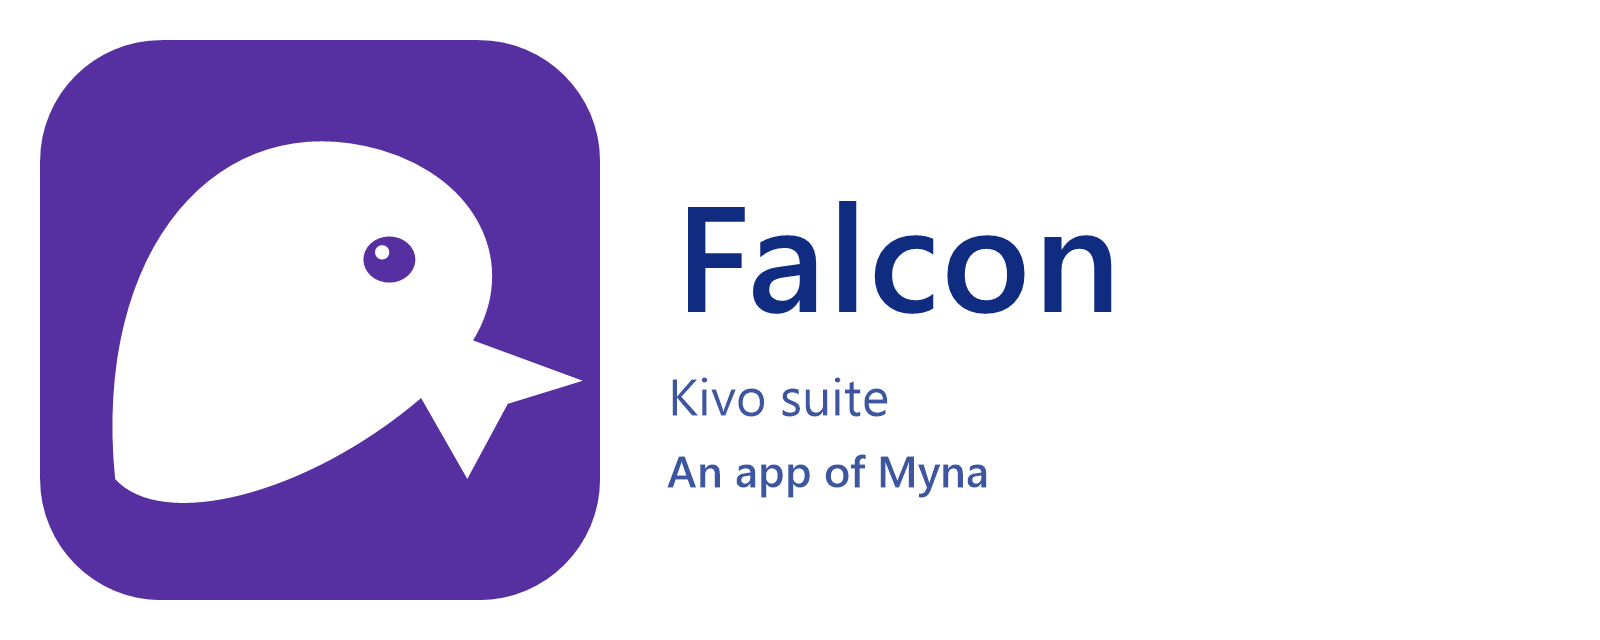
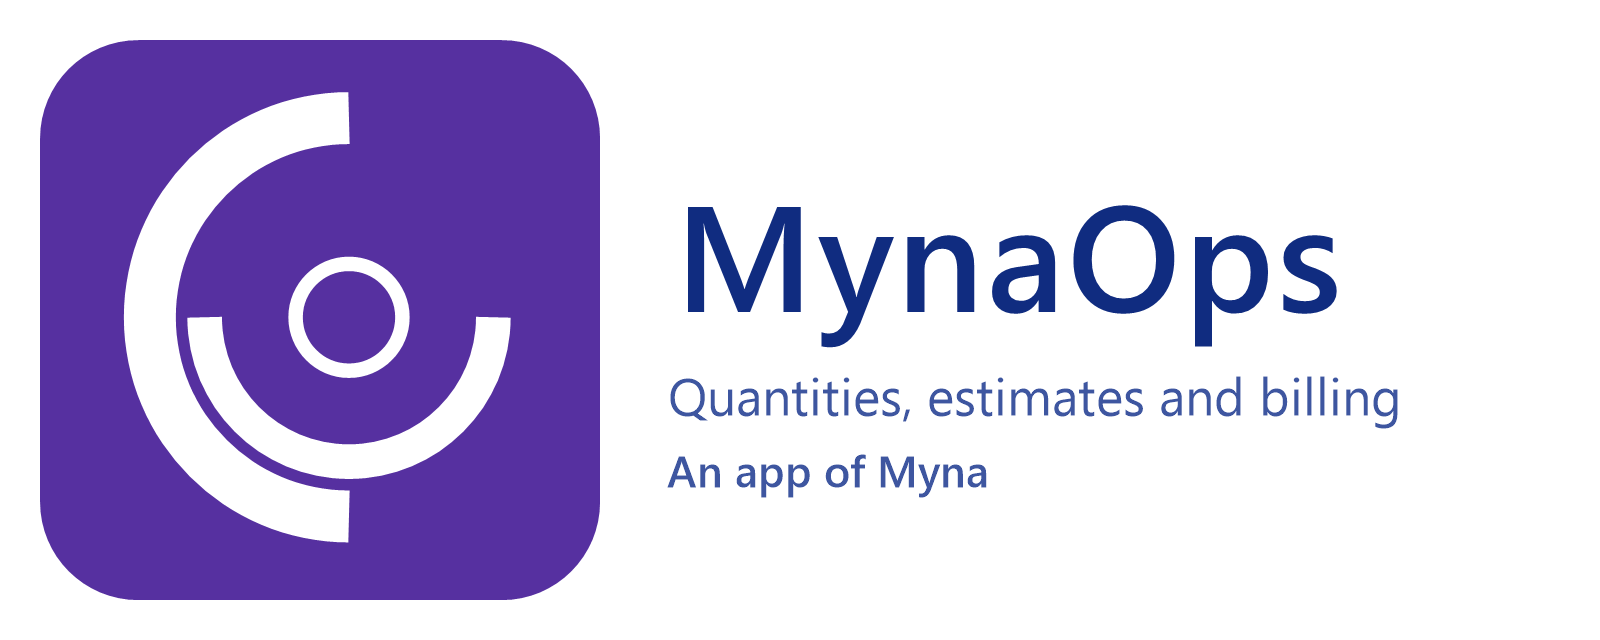
Restore the three-circle suite mark in each app's colour; pure white and pure black themes
The bird marks are retired. Each app wears the suite mark on its own colour, Myna wears the orb. Light is #FFFFFF with #000000 text, dark is #000000 with #FFFFFF text; accents stay per app.

diff --git a/BBSDesktop/BBSApp/Themes/OUiFluentBridge.xaml b/BBSDesktop/BBSApp/Themes/OUiFluentBridge.xaml
@@ -8,34 +8,34 @@
 
     <ResourceDictionary.ThemeDictionaries>
         <ResourceDictionary x:Key="Default">
-            <SolidColorBrush x:Key="ApplicationPageBackgroundThemeBrush" Color="#1B1F28"/>
-            <SolidColorBrush x:Key="SolidBackgroundFillColorBaseBrush" Color="#1B1F28"/>
-            <SolidColorBrush x:Key="SolidBackgroundFillColorSecondaryBrush" Color="#151922"/>
-            <SolidColorBrush x:Key="LayerFillColorDefaultBrush" Color="#151922"/>
-            <SolidColorBrush x:Key="CardBackgroundFillColorDefaultBrush" Color="#242A36"/>
-            <SolidColorBrush x:Key="CardBackgroundFillColorSecondaryBrush" Color="#2A3140"/>
-            <SolidColorBrush x:Key="CardStrokeColorDefaultBrush" Color="#3A4250"/>
-            <SolidColorBrush x:Key="SurfaceStrokeColorDefaultBrush" Color="#3A4250"/>
-            <SolidColorBrush x:Key="TextFillColorPrimaryBrush" Color="#EEF2F8"/>
-            <SolidColorBrush x:Key="TextFillColorSecondaryBrush" Color="#A8B0BD"/>
-            <SolidColorBrush x:Key="TextFillColorTertiaryBrush" Color="#A8B0BD"/>
-            <SolidColorBrush x:Key="SubtleFillColorSecondaryBrush" Color="#2A3140"/>
-            <SolidColorBrush x:Key="SubtleFillColorTertiaryBrush" Color="#151922"/>
-            <SolidColorBrush x:Key="ControlFillColorDefaultBrush" Color="#242A36"/>
-            <SolidColorBrush x:Key="ControlFillColorSecondaryBrush" Color="#2A3140"/>
-            <SolidColorBrush x:Key="ControlStrokeColorDefaultBrush" Color="#3A4250"/>
+            <SolidColorBrush x:Key="ApplicationPageBackgroundThemeBrush" Color="#000000"/>
+            <SolidColorBrush x:Key="SolidBackgroundFillColorBaseBrush" Color="#000000"/>
+            <SolidColorBrush x:Key="SolidBackgroundFillColorSecondaryBrush" Color="#000000"/>
+            <SolidColorBrush x:Key="LayerFillColorDefaultBrush" Color="#000000"/>
+            <SolidColorBrush x:Key="CardBackgroundFillColorDefaultBrush" Color="#000000"/>
+            <SolidColorBrush x:Key="CardBackgroundFillColorSecondaryBrush" Color="#1F1F1F"/>
+            <SolidColorBrush x:Key="CardStrokeColorDefaultBrush" Color="#333333"/>
+            <SolidColorBrush x:Key="SurfaceStrokeColorDefaultBrush" Color="#333333"/>
+            <SolidColorBrush x:Key="TextFillColorPrimaryBrush" Color="#FFFFFF"/>
+            <SolidColorBrush x:Key="TextFillColorSecondaryBrush" Color="#B8B8B8"/>
+            <SolidColorBrush x:Key="TextFillColorTertiaryBrush" Color="#B8B8B8"/>
+            <SolidColorBrush x:Key="SubtleFillColorSecondaryBrush" Color="#1F1F1F"/>
+            <SolidColorBrush x:Key="SubtleFillColorTertiaryBrush" Color="#000000"/>
+            <SolidColorBrush x:Key="ControlFillColorDefaultBrush" Color="#000000"/>
+            <SolidColorBrush x:Key="ControlFillColorSecondaryBrush" Color="#1F1F1F"/>
+            <SolidColorBrush x:Key="ControlStrokeColorDefaultBrush" Color="#333333"/>
             <SolidColorBrush x:Key="AccentFillColorDefaultBrush" Color="#5630A0"/>
             <SolidColorBrush x:Key="AccentFillColorSecondaryBrush" Color="#4A289A"/>
             <SolidColorBrush x:Key="AccentTextFillColorPrimaryBrush" Color="#9E78D8"/>
             <SolidColorBrush x:Key="SystemControlHighlightAccentBrush" Color="#9E78D8"/>
-            <SolidColorBrush x:Key="AcrylicInAppFillColorDefaultBrush" Color="#151922"/>
-            <SolidColorBrush x:Key="AcrylicBackgroundFillColorDefaultBrush" Color="#1B1F28"/>
-            <SolidColorBrush x:Key="HcwFogBrush" Color="#1B1F28"/>
-            <SolidColorBrush x:Key="HcwSoftBrush" Color="#151922"/>
-            <SolidColorBrush x:Key="HcwWhiteBrush" Color="#242A36"/>
-            <SolidColorBrush x:Key="HcwInkBrush" Color="#EEF2F8"/>
-            <SolidColorBrush x:Key="HcwMutedBrush" Color="#A8B0BD"/>
-            <SolidColorBrush x:Key="HcwEdgeBrush" Color="#3A4250"/>
+            <SolidColorBrush x:Key="AcrylicInAppFillColorDefaultBrush" Color="#000000"/>
+            <SolidColorBrush x:Key="AcrylicBackgroundFillColorDefaultBrush" Color="#000000"/>
+            <SolidColorBrush x:Key="HcwFogBrush" Color="#000000"/>
+            <SolidColorBrush x:Key="HcwSoftBrush" Color="#000000"/>
+            <SolidColorBrush x:Key="HcwWhiteBrush" Color="#000000"/>
+            <SolidColorBrush x:Key="HcwInkBrush" Color="#FFFFFF"/>
+            <SolidColorBrush x:Key="HcwMutedBrush" Color="#B8B8B8"/>
+            <SolidColorBrush x:Key="HcwEdgeBrush" Color="#333333"/>
             <SolidColorBrush x:Key="HcwAccentBrush" Color="#5630A0"/>
             <SolidColorBrush x:Key="HcwAccentEdgeBrush" Color="#5630A0"/>
             <SolidColorBrush x:Key="HcwAccentTextBrush" Color="#9E78D8"/>
@@ -47,34 +47,34 @@
             <CornerRadius x:Key="OverlayCornerRadius">2</CornerRadius>
         </ResourceDictionary>
         <ResourceDictionary x:Key="Light">
-            <SolidColorBrush x:Key="ApplicationPageBackgroundThemeBrush" Color="#E4EAF2"/>
-            <SolidColorBrush x:Key="SolidBackgroundFillColorBaseBrush" Color="#E4EAF2"/>
-            <SolidColorBrush x:Key="SolidBackgroundFillColorSecondaryBrush" Color="#EEF2F8"/>
-            <SolidColorBrush x:Key="LayerFillColorDefaultBrush" Color="#EEF2F8"/>
+            <SolidColorBrush x:Key="ApplicationPageBackgroundThemeBrush" Color="#FFFFFF"/>
+            <SolidColorBrush x:Key="SolidBackgroundFillColorBaseBrush" Color="#FFFFFF"/>
+            <SolidColorBrush x:Key="SolidBackgroundFillColorSecondaryBrush" Color="#FFFFFF"/>
+            <SolidColorBrush x:Key="LayerFillColorDefaultBrush" Color="#FFFFFF"/>
             <SolidColorBrush x:Key="CardBackgroundFillColorDefaultBrush" Color="#FFFFFF"/>
-            <SolidColorBrush x:Key="CardBackgroundFillColorSecondaryBrush" Color="#F1F5FA"/>
-            <SolidColorBrush x:Key="CardStrokeColorDefaultBrush" Color="#D8DEE8"/>
-            <SolidColorBrush x:Key="SurfaceStrokeColorDefaultBrush" Color="#D8DEE8"/>
-            <SolidColorBrush x:Key="TextFillColorPrimaryBrush" Color="#1A2332"/>
-            <SolidColorBrush x:Key="TextFillColorSecondaryBrush" Color="#5D6B82"/>
-            <SolidColorBrush x:Key="TextFillColorTertiaryBrush" Color="#5D6B82"/>
-            <SolidColorBrush x:Key="SubtleFillColorSecondaryBrush" Color="#F1F5FA"/>
-            <SolidColorBrush x:Key="SubtleFillColorTertiaryBrush" Color="#EEF2F8"/>
+            <SolidColorBrush x:Key="CardBackgroundFillColorSecondaryBrush" Color="#F0F0F0"/>
+            <SolidColorBrush x:Key="CardStrokeColorDefaultBrush" Color="#D9D9D9"/>
+            <SolidColorBrush x:Key="SurfaceStrokeColorDefaultBrush" Color="#D9D9D9"/>
+            <SolidColorBrush x:Key="TextFillColorPrimaryBrush" Color="#000000"/>
+            <SolidColorBrush x:Key="TextFillColorSecondaryBrush" Color="#4D4D4D"/>
+            <SolidColorBrush x:Key="TextFillColorTertiaryBrush" Color="#4D4D4D"/>
+            <SolidColorBrush x:Key="SubtleFillColorSecondaryBrush" Color="#F0F0F0"/>
+            <SolidColorBrush x:Key="SubtleFillColorTertiaryBrush" Color="#FFFFFF"/>
             <SolidColorBrush x:Key="ControlFillColorDefaultBrush" Color="#FFFFFF"/>
-            <SolidColorBrush x:Key="ControlFillColorSecondaryBrush" Color="#F1F5FA"/>
-            <SolidColorBrush x:Key="ControlStrokeColorDefaultBrush" Color="#D8DEE8"/>
+            <SolidColorBrush x:Key="ControlFillColorSecondaryBrush" Color="#F0F0F0"/>
+            <SolidColorBrush x:Key="ControlStrokeColorDefaultBrush" Color="#D9D9D9"/>
             <SolidColorBrush x:Key="AccentFillColorDefaultBrush" Color="#5630A0"/>
             <SolidColorBrush x:Key="AccentFillColorSecondaryBrush" Color="#4A289A"/>
             <SolidColorBrush x:Key="AccentTextFillColorPrimaryBrush" Color="#5630A0"/>
             <SolidColorBrush x:Key="SystemControlHighlightAccentBrush" Color="#5630A0"/>
-            <SolidColorBrush x:Key="AcrylicInAppFillColorDefaultBrush" Color="#EEF2F8"/>
-            <SolidColorBrush x:Key="AcrylicBackgroundFillColorDefaultBrush" Color="#E4EAF2"/>
-            <SolidColorBrush x:Key="HcwFogBrush" Color="#E4EAF2"/>
-            <SolidColorBrush x:Key="HcwSoftBrush" Color="#EEF2F8"/>
+            <SolidColorBrush x:Key="AcrylicInAppFillColorDefaultBrush" Color="#FFFFFF"/>
+            <SolidColorBrush x:Key="AcrylicBackgroundFillColorDefaultBrush" Color="#FFFFFF"/>
+            <SolidColorBrush x:Key="HcwFogBrush" Color="#FFFFFF"/>
+            <SolidColorBrush x:Key="HcwSoftBrush" Color="#FFFFFF"/>
             <SolidColorBrush x:Key="HcwWhiteBrush" Color="#FFFFFF"/>
-            <SolidColorBrush x:Key="HcwInkBrush" Color="#1A2332"/>
-            <SolidColorBrush x:Key="HcwMutedBrush" Color="#5D6B82"/>
-            <SolidColorBrush x:Key="HcwEdgeBrush" Color="#D8DEE8"/>
+            <SolidColorBrush x:Key="HcwInkBrush" Color="#000000"/>
+            <SolidColorBrush x:Key="HcwMutedBrush" Color="#4D4D4D"/>
+            <SolidColorBrush x:Key="HcwEdgeBrush" Color="#D9D9D9"/>
             <SolidColorBrush x:Key="HcwAccentBrush" Color="#5630A0"/>
             <SolidColorBrush x:Key="HcwAccentEdgeBrush" Color="#5630A0"/>
             <SolidColorBrush x:Key="HcwAccentTextBrush" Color="#5630A0"/>
@@ -86,34 +86,34 @@
             <CornerRadius x:Key="OverlayCornerRadius">2</CornerRadius>
         </ResourceDictionary>
         <ResourceDictionary x:Key="Dark">
-            <SolidColorBrush x:Key="ApplicationPageBackgroundThemeBrush" Color="#1B1F28"/>
-            <SolidColorBrush x:Key="SolidBackgroundFillColorBaseBrush" Color="#1B1F28"/>
-            <SolidColorBrush x:Key="SolidBackgroundFillColorSecondaryBrush" Color="#151922"/>
-            <SolidColorBrush x:Key="LayerFillColorDefaultBrush" Color="#151922"/>
-            <SolidColorBrush x:Key="CardBackgroundFillColorDefaultBrush" Color="#242A36"/>
-            <SolidColorBrush x:Key="CardBackgroundFillColorSecondaryBrush" Color="#2A3140"/>
-            <SolidColorBrush x:Key="CardStrokeColorDefaultBrush" Color="#3A4250"/>
-            <SolidColorBrush x:Key="SurfaceStrokeColorDefaultBrush" Color="#3A4250"/>
-            <SolidColorBrush x:Key="TextFillColorPrimaryBrush" Color="#EEF2F8"/>
-            <SolidColorBrush x:Key="TextFillColorSecondaryBrush" Color="#A8B0BD"/>
-            <SolidColorBrush x:Key="TextFillColorTertiaryBrush" Color="#A8B0BD"/>
-            <SolidColorBrush x:Key="SubtleFillColorSecondaryBrush" Color="#2A3140"/>
-            <SolidColorBrush x:Key="SubtleFillColorTertiaryBrush" Color="#151922"/>
-            <SolidColorBrush x:Key="ControlFillColorDefaultBrush" Color="#242A36"/>
-            <SolidColorBrush x:Key="ControlFillColorSecondaryBrush" Color="#2A3140"/>
-            <SolidColorBrush x:Key="ControlStrokeColorDefaultBrush" Color="#3A4250"/>
+            <SolidColorBrush x:Key="ApplicationPageBackgroundThemeBrush" Color="#000000"/>
+            <SolidColorBrush x:Key="SolidBackgroundFillColorBaseBrush" Color="#000000"/>
+            <SolidColorBrush x:Key="SolidBackgroundFillColorSecondaryBrush" Color="#000000"/>
+            <SolidColorBrush x:Key="LayerFillColorDefaultBrush" Color="#000000"/>
+            <SolidColorBrush x:Key="CardBackgroundFillColorDefaultBrush" Color="#000000"/>
+            <SolidColorBrush x:Key="CardBackgroundFillColorSecondaryBrush" Color="#1F1F1F"/>
+            <SolidColorBrush x:Key="CardStrokeColorDefaultBrush" Color="#333333"/>
+            <SolidColorBrush x:Key="SurfaceStrokeColorDefaultBrush" Color="#333333"/>
+            <SolidColorBrush x:Key="TextFillColorPrimaryBrush" Color="#FFFFFF"/>
+            <SolidColorBrush x:Key="TextFillColorSecondaryBrush" Color="#B8B8B8"/>
+            <SolidColorBrush x:Key="TextFillColorTertiaryBrush" Color="#B8B8B8"/>
+            <SolidColorBrush x:Key="SubtleFillColorSecondaryBrush" Color="#1F1F1F"/>
+            <SolidColorBrush x:Key="SubtleFillColorTertiaryBrush" Color="#000000"/>
+            <SolidColorBrush x:Key="ControlFillColorDefaultBrush" Color="#000000"/>
+            <SolidColorBrush x:Key="ControlFillColorSecondaryBrush" Color="#1F1F1F"/>
+            <SolidColorBrush x:Key="ControlStrokeColorDefaultBrush" Color="#333333"/>
             <SolidColorBrush x:Key="AccentFillColorDefaultBrush" Color="#5630A0"/>
             <SolidColorBrush x:Key="AccentFillColorSecondaryBrush" Color="#4A289A"/>
             <SolidColorBrush x:Key="AccentTextFillColorPrimaryBrush" Color="#9E78D8"/>
             <SolidColorBrush x:Key="SystemControlHighlightAccentBrush" Color="#9E78D8"/>
-            <SolidColorBrush x:Key="AcrylicInAppFillColorDefaultBrush" Color="#151922"/>
-            <SolidColorBrush x:Key="AcrylicBackgroundFillColorDefaultBrush" Color="#1B1F28"/>
-            <SolidColorBrush x:Key="HcwFogBrush" Color="#1B1F28"/>
-            <SolidColorBrush x:Key="HcwSoftBrush" Color="#151922"/>
-            <SolidColorBrush x:Key="HcwWhiteBrush" Color="#242A36"/>
-            <SolidColorBrush x:Key="HcwInkBrush" Color="#EEF2F8"/>
-            <SolidColorBrush x:Key="HcwMutedBrush" Color="#A8B0BD"/>
-            <SolidColorBrush x:Key="HcwEdgeBrush" Color="#3A4250"/>
+            <SolidColorBrush x:Key="AcrylicInAppFillColorDefaultBrush" Color="#000000"/>
+            <SolidColorBrush x:Key="AcrylicBackgroundFillColorDefaultBrush" Color="#000000"/>
+            <SolidColorBrush x:Key="HcwFogBrush" Color="#000000"/>
+            <SolidColorBrush x:Key="HcwSoftBrush" Color="#000000"/>
+            <SolidColorBrush x:Key="HcwWhiteBrush" Color="#000000"/>
+            <SolidColorBrush x:Key="HcwInkBrush" Color="#FFFFFF"/>
+            <SolidColorBrush x:Key="HcwMutedBrush" Color="#B8B8B8"/>
+            <SolidColorBrush x:Key="HcwEdgeBrush" Color="#333333"/>
             <SolidColorBrush x:Key="HcwAccentBrush" Color="#5630A0"/>
             <SolidColorBrush x:Key="HcwAccentEdgeBrush" Color="#5630A0"/>
             <SolidColorBrush x:Key="HcwAccentTextBrush" Color="#9E78D8"/>

diff --git a/BBSDesktop/BBSApp/MainWindow.xaml.cs b/BBSDesktop/BBSApp/MainWindow.xaml.cs
@@ -899,11 +899,11 @@ public sealed partial class MainWindow : Window, IAppCommandBus, IAssistantConfi
         var dark = O.Ui.SuiteAppearance.IsDark;
         var bar = AppWindow.TitleBar;
         Windows.UI.Color Bg(byte r, byte g, byte b) => Windows.UI.Color.FromArgb(255, r, g, b);
-        var background = dark ? Bg(0x1B, 0x1B, 0x1B) : Bg(0xE4, 0xEA, 0xF2);
-        var foreground = dark ? Bg(0xF3, 0xF3, 0xF3) : Bg(0x1A, 0x23, 0x32);
-        var hover = dark ? Bg(0x2F, 0x2F, 0x2F) : Bg(0xF1, 0xF5, 0xFA);
-        var pressed = dark ? Bg(0x38, 0x38, 0x38) : Bg(0xD8, 0xDE, 0xE8);
-        var inactive = dark ? Bg(0x9A, 0x9A, 0x9A) : Bg(0x4A, 0x56, 0x68);
+        var background = dark ? Bg(0x00, 0x00, 0x00) : Bg(0xFF, 0xFF, 0xFF);
+        var foreground = dark ? Bg(0xFF, 0xFF, 0xFF) : Bg(0x00, 0x00, 0x00);
+        var hover = dark ? Bg(0x1F, 0x1F, 0x1F) : Bg(0xF0, 0xF0, 0xF0);
+        var pressed = dark ? Bg(0x33, 0x33, 0x33) : Bg(0xD9, 0xD9, 0xD9);
+        var inactive = dark ? Bg(0xB8, 0xB8, 0xB8) : Bg(0x4D, 0x4D, 0x4D);
         bar.BackgroundColor = background;
         bar.ForegroundColor = foreground;
         bar.InactiveBackgroundColor = background;

diff --git a/docs/BRANDING.md b/docs/BRANDING.md
@@ -3,7 +3,7 @@
 **Canonical copy:** MynaHub `docs/BRANDING.md`. MynaOps and MynaCAD keep an identical copy; **O-UI** (`o-ui`) holds the artwork, the colour files and the tool that draws them.
 **Names and terms:** [SUITE.md](SUITE.md). **Written 2026-11-01.**
 
-The idea: **one family name, Myna, and a use-case word for each app** (MynaHub, MynaCAD, MynaOps, MynaMod; decided 2026-11-10 after the user survey). The apps still have one bird each, on that app's colour, as drawn below; replacing them with one Myna mark in four colours is open design work. The **AI agent** wears all four colours.
+The idea: **one family name, Myna, and a use-case word for each app** (MynaHub, MynaCAD, MynaOps, MynaMod; decided 2026-11-10 after the user survey). Marks: the three-circle suite mark in each app's colour, and the orb for Myna (restored 2026-11-10). The **AI agent** wears all four colours.
 
 ## 1. The palette
 
@@ -30,27 +30,31 @@ All four Light Conditions accents are dark enough for **white** text and glyphs.
 | White on Ember | 5.6 : 1 | text and glyph on MynaHub's tile (AA ✓) |
 | Gold text `#9B6000` on white | 4.7 : 1 | AI agent accent text on white (AA ✓) |
 
+### Themes (2026-11-10)
+
+Every app has two themes, **pure white** and **pure black**, and the person chooses (or follows Windows). The neutrals are not tinted: light is `#FFFFFF` surfaces with `#000000` text, dark is `#000000` surfaces with `#FFFFFF` text. Regions are told apart by edge lines, not by a change of grey. Secondary text is `#4D4D4D` on white and `#B8B8B8` on black; control edges are `#767676` on white and `#8C8C8C` on black (both over 3:1, WCAG 1.4.11); hover is `#F0F0F0` / `#1F1F1F`. The **app colour** (Ember, Midnight, Dusk, Grove) stays for fills, marks, focus and selection; in dark it is the lighter tint in `SuiteAccent.<App>.Dark.xaml`. The drawing canvas of MynaCAD is white or black on its own switch. Defined in `o-ui` `O.Ui/Themes/SuiteColors.xaml` (light) and `SuiteColors.Dark.xaml`; MynaCAD's `Themes/ColorTokens.xaml` and the egui shell (`crates/ui-egui/src/theme.rs`) carry the same values.
+
 ## 2. The mark
 
-Each app has its own bird, white on a rounded tile in that app's colour (corner radius 42 of 194, about 21.5 %). A second tone is the colour washed toward white. The eye is a hole in the tile colour. Drawn by `o-ui` `tools/Brand` (`Birds.cs`); MynaCAD's `xtask` logo command uses the same MynaCAD curves.
+**One mark, three circles.** The suite mark is a half ring open to the right (the largest circle), a smaller half ring below the centre, and a small ring at the centre, all white. Every app wears it on a rounded tile in **that app's colour** (corner radius 42 of 194, about 21.5 %). **Myna**, the suite and its launcher, wears the **orb**: the same mark lit by all four app colours (section 3). Redrawn 2026-11-10 from the pre-bird marks; the bird marks of 2026-11-07 are retired. Drawn by `o-ui` `tools/Brand` (`Program.cs`); MynaCAD's `xtask` logo command draws the same curves.
 
-| App | Bird | Tile |
-|---|---|---|
-| MynaHub | long beak, chest under it | Ember |
-| MynaCAD | long crown, short beak | Midnight |
-| MynaMod | cap over a pale cheek | Grove |
-| MynaOps | domed head, hooked beak | Dusk |
-| Myna | cap, eye band, pointed beak | Ember |
+| App | Tile |
+|---|---|
+| MynaHub | Ember |
+| MynaCAD | Midnight |
+| MynaMod | Grove |
+| MynaOps | Dusk |
+| Myna | the orb (all four colours) |
 
 Rules
-- A bird is not redrawn, rotated or given a colour outside its row. White on these tiles meets the contrast table above.
+- The mark is not redrawn, rotated or given a colour outside its row. White on these tiles meets the contrast table above.
 - Clear space round a tile: a quarter of its width. Smallest size: 16 px (the ICO has 16, 24, 32, 48, 64, 128 and 256 px).
-- On a plain ground without a tile (a wide splash), the bird is white on a field of the same colour.
-- Never put a second logo, a shadow or a gradient on the tile.
+- On a plain ground without a tile (a wide splash), the mark is white on a field of the same colour.
+- Never put a second logo, a shadow or a gradient on an app tile.
 
 ### Files
 
-`o-ui/brand/<app>/` for `studio` (MynaHub), `draft` (MynaCAD), `form` (MynaMod), `coreop` (MynaOps), `launcher` (Myna): `mark.svg`, `mark.png` (1024), `mark-256.png`, `app.ico`, `lockup.png`, and `tiles/` (the Windows tile and store sizes). `brand/brand-sheet.png` is the one-page card. Redraw everything with `dotnet run --project tools/Brand -- brand` in `o-ui`. Apps copy what they need: MynaHub `native/Adms.Desktop/Assets` (every bird, plus `myna.ico` for the launcher), MynaOps `BBSDesktop/BBSApp/Assets`, MynaCAD `assets/app-icon`, MynaMod `scripts/startup/bl_app_templates_system/oform`.
+`o-ui/brand/<app>/` for `studio` (MynaHub), `draft` (MynaCAD), `form` (MynaMod), `coreop` (MynaOps), `launcher` (Myna): `mark.svg`, `mark.png` (1024), `mark-256.png`, `app.ico`, `lockup.png`, and `tiles/` (the Windows tile and store sizes). `brand/brand-sheet.png` is the one-page card. Redraw everything with `dotnet run --project tools/Brand -- brand` in `o-ui`. Apps copy what they need: MynaHub `native/Adms.Desktop/Assets` (every mark, plus `myna.ico` for the launcher), MynaOps `BBSDesktop/BBSApp/Assets`, MynaCAD `assets/app-icon`, MynaMod `scripts/startup/bl_app_templates_system/oform`.
 
 ## 3. The AI agent
 

diff --git a/docs/SUITE.md b/docs/SUITE.md
@@ -4,7 +4,7 @@
 
 ## 1. Names
 
-**Naming (2026-11-10, after the user survey found the bird names confusing):** one family name, **Myna**, and a use-case word for each app. **Myna** is the suite and its launcher (tray icon, AI Core host); **MynaHub** is the hub (company, people, approvals; was Kivo); **MynaCAD** is drafting (was Tren); **MynaOps** is operations: quantities, estimates and billing (was Falcon); **MynaMod** is 3D / BIM modelling (was Finch). The older bird names (Kivo, Tren, Falcon, Finch) and the O- names are retired from user text. Installers are `Myna-Setup-<version>.exe`. Identifiers keep their old spellings (install folders, exe names, `OSTUDIO_*`, the stored origin stamp `"app":"Tren"`). The apps still carry their separate bird marks and colours; moving to one Myna mark is a design task that is not done.
+**Naming (2026-11-10, after the user survey found the bird names confusing):** one family name, **Myna**, and a use-case word for each app. **Myna** is the suite and its launcher (tray icon, AI Core host); **MynaHub** is the hub (company, people, approvals; was Kivo); **MynaCAD** is drafting (was Tren); **MynaOps** is operations: quantities, estimates and billing (was Falcon); **MynaMod** is 3D / BIM modelling (was Finch). The older bird names (Kivo, Tren, Falcon, Finch) and the O- names are retired from user text. Installers are `Myna-Setup-<version>.exe`. Identifiers keep their old spellings (install folders, exe names, `OSTUDIO_*`, the stored origin stamp `"app":"Tren"`). Marks: the three-circle suite mark on each app's colour; Myna wears the orb (BRANDING.md).
 
 The suite is the **MynaHub family of apps** (MynaHub, MynaOps, MynaCAD, MynaMod, Myna, and O-UI). **MynaHub** is the hub: **company sign-in** (the session every other app asks for), users, estimates, running bills, **approvals and revisions**, and the Neon sync settings. **Myna** hosts only the **Olmo AI Core** and the **database service** (a local database that syncs to Neon); it does not sign anyone in. **MynaCAD** and **MynaOps** share one `.osp` file connected to that database. A name below is the name to use in text, menus and installers. Code identifiers keep older spellings because files already use them; they are identifiers, not names.
 
